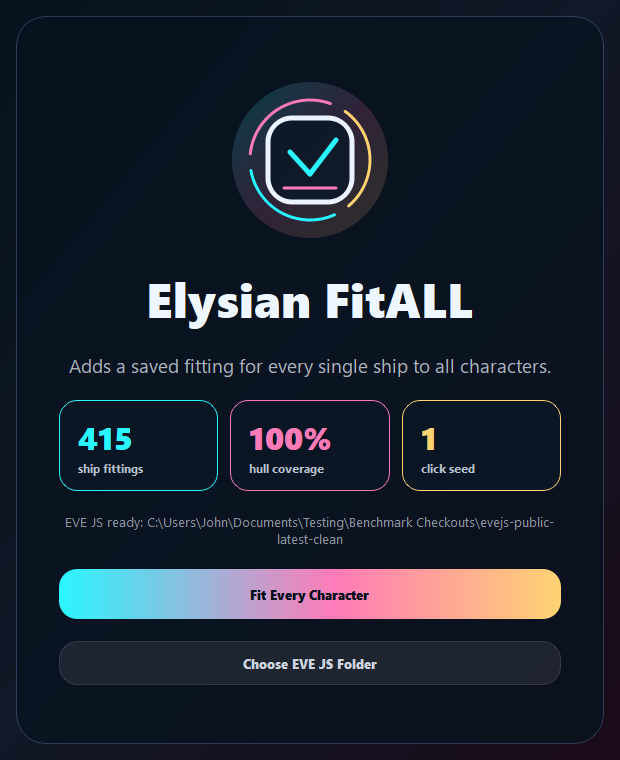
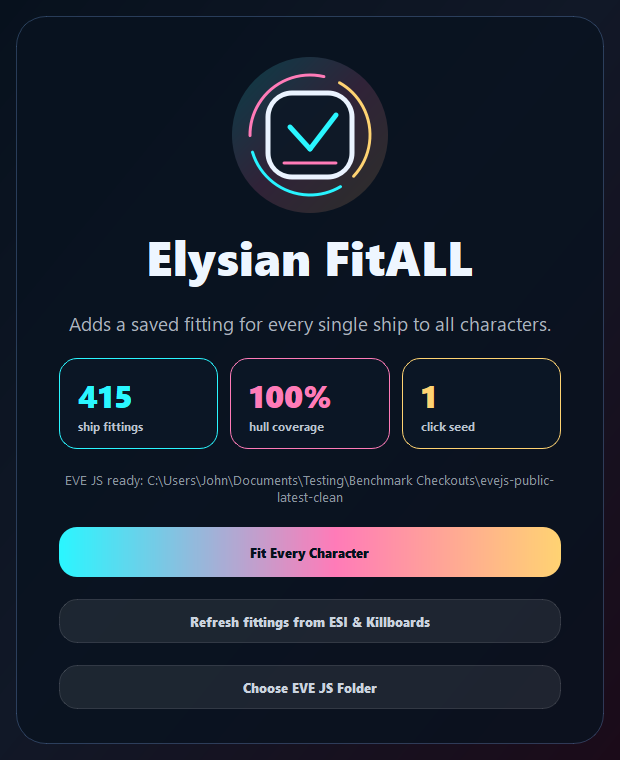
Add fitting refresh workflow

Changed region(s): [[0.0919, 0.0605, 0.9194, 0.9382], [0.8887, 0.575, 0.9194, 0.6053], [0.8887, 0.5145, 0.9194, 0.5447]]

diff --git a/desktop_app.py b/desktop_app.py
@@ -168,15 +168,20 @@ class MetricCard(QFrame):
         layout = QVBoxLayout(self)
         layout.setContentsMargins(18, 14, 18, 14)
         layout.setSpacing(2)
-        value_label = QLabel(value)
-        value_label.setFont(choose_font(24, QFont.Weight.Black))
-        value_label.setStyleSheet(f"color: {accent};")
-        caption = QLabel(label)
-        caption.setFont(choose_font(9, QFont.Weight.Bold))
-        caption.setStyleSheet("color: rgba(235,244,255,0.78);")
-        caption.setWordWrap(True)
-        layout.addWidget(value_label)
-        layout.addWidget(caption)
+        self.value_label = QLabel(value)
+        self.value_label.setFont(choose_font(24, QFont.Weight.Black))
+        self.value_label.setStyleSheet(f"color: {accent};")
+        self.caption = QLabel(label)
+        self.caption.setFont(choose_font(9, QFont.Weight.Bold))
+        self.caption.setStyleSheet("color: rgba(235,244,255,0.78);")
+        self.caption.setWordWrap(True)
+        layout.addWidget(self.value_label)
+        layout.addWidget(self.caption)
+
+    def set_metric(self, value: str, label: str | None = None) -> None:
+        self.value_label.setText(value)
+        if label is not None:
+            self.caption.setText(label)
 
 
 class StagePage(QWidget):
@@ -192,11 +197,15 @@ class FitWorker(QThread):
     finished_ok = Signal(dict)
     failed = Signal(str, str)
 
+    def __init__(self, command: str, parent: QWidget | None = None) -> None:
+        super().__init__(parent)
+        self.command = command
+
     def run(self) -> None:
         started = time.perf_counter()
         try:
             result = fitall.run_fitall_command(
-                command="seed-saved-fittings",
+                command=self.command,
                 event_callback=self.event.emit,
                 log_callback=None,
             )
@@ -213,6 +222,8 @@ class FitALLWindow(QMainWindow):
         self.setFixedSize(WINDOW_W, WINDOW_H)
         self._worker: FitWorker | None = None
         self._seed_total = 0
+        self._build_total = 0
+        self._active_command = "seed-saved-fittings"
         self._last_result: dict[str, Any] = {}
 
         shell = QWidget()
@@ -365,7 +376,11 @@ class FitALLWindow(QMainWindow):
         self.choose_button = QPushButton("Choose EVE JS Folder")
         self.choose_button.setObjectName("Ghost")
         self.choose_button.clicked.connect(self.choose_evejs_folder)
+        self.refresh_button = QPushButton("Refresh fittings from ESI && Killboards")
+        self.refresh_button.setObjectName("Ghost")
+        self.refresh_button.clicked.connect(self.start_refresh)
         self.ready_page.root.addWidget(self.primary_button)
+        self.ready_page.root.addWidget(self.refresh_button)
         self.ready_page.root.addWidget(self.choose_button)
         self.ready_page.root.addStretch(1)
         self.stack.addWidget(self.ready_page)
@@ -434,17 +449,19 @@ class FitALLWindow(QMainWindow):
         library_summary = snapshot.get("librarySummary") or {}
         ship_count = int(library_summary.get("shipCount") or 0)
         harvested = int(library_summary.get("harvestedCount") or 0)
-        self.ship_metric.layout().itemAt(0).widget().setText(format_count(harvested or ship_count))
+        self.ship_metric.set_metric(format_count(harvested or ship_count))
         coverage = "100%" if ship_count and harvested >= ship_count else f"{harvested}/{ship_count}"
-        self.coverage_metric.layout().itemAt(0).widget().setText(coverage)
+        self.coverage_metric.set_metric(coverage)
 
         if fitall.looks_like_evejs_root(fitall.REPO_ROOT):
             self.path_label.setText(f"EVE JS ready: {fitall.REPO_ROOT}")
             self.primary_button.setEnabled(True)
+            self.refresh_button.setEnabled(True)
             self.primary_button.setText("Fit Every Character")
         else:
             self.path_label.setText("Choose your EVE JS folder once. FitALL remembers it after setup.")
             self.primary_button.setEnabled(True)
+            self.refresh_button.setEnabled(True)
             self.primary_button.setText("Choose EVE JS Folder")
 
     @Slot()
@@ -468,11 +485,34 @@ class FitALLWindow(QMainWindow):
             return
         if self._worker and self._worker.isRunning():
             return
+        self._active_command = "seed-saved-fittings"
         self._seed_total = 0
+        self.running_title.setText("Fitting every character")
+        self.running_body.setText("Writing the FitALL library into EVE JS saved fittings.")
         self.progress.set_progress(0.03, active=True)
         self.progress_detail.setText("Loading characters...")
         self.stack.setCurrentWidget(self.running_page)
-        self._worker = FitWorker()
+        self._worker = FitWorker("seed-saved-fittings", self)
+        self._worker.event.connect(self.on_worker_event)
+        self._worker.finished_ok.connect(self.on_worker_done)
+        self._worker.failed.connect(self.on_worker_failed)
+        self._worker.start()
+
+    @Slot()
+    def start_refresh(self) -> None:
+        if not fitall.looks_like_evejs_root(fitall.REPO_ROOT):
+            self.choose_evejs_folder()
+            return
+        if self._worker and self._worker.isRunning():
+            return
+        self._active_command = "build-library"
+        self._build_total = 0
+        self.running_title.setText("Refreshing fittings")
+        self.running_body.setText("Downloading fresh public fits from ESI and zKillboard.")
+        self.progress.set_progress(0.02, active=True)
+        self.progress_detail.setText("Preparing ship list...")
+        self.stack.setCurrentWidget(self.running_page)
+        self._worker = FitWorker("build-library", self)
         self._worker.event.connect(self.on_worker_event)
         self._worker.finished_ok.connect(self.on_worker_done)
         self._worker.failed.connect(self.on_worker_failed)
@@ -499,18 +539,58 @@ class FitALLWindow(QMainWindow):
         if kind == "seed-complete":
             self.progress.set_progress(1.0, active=False)
             self.progress_detail.setText("Saved fittings written.")
+            return
+        if kind == "build-start":
+            self._build_total = int(payload.get("total") or 0)
+            self.running_body.setText("Downloading fresh public fits from ESI and zKillboard.")
+            self.progress_detail.setText(f"Preparing {format_count(self._build_total)} ships...")
+            self.progress.set_progress(0.04, active=True)
+            return
+        if kind == "build-progress":
+            current = int(payload.get("current") or 0)
+            total = max(1, int(payload.get("total") or self._build_total or 1))
+            ship_name = str(payload.get("shipName") or "ship")
+            status = "ready" if payload.get("status") == "ok" else "searching"
+            self.progress.set_progress(current / total, active=True)
+            self.progress_detail.setText(f"{current}/{total} - {ship_name} - {status}")
+            return
+        if kind == "build-complete":
+            summary = payload.get("summary") or {}
+            self.progress.set_progress(1.0, active=False)
+            self.progress_detail.setText(
+                f"Refreshed {format_count(summary.get('harvestedCount'))} / "
+                f"{format_count(summary.get('shipCount'))} fittings."
+            )
 
     @Slot(dict)
     def on_worker_done(self, result: dict[str, Any]) -> None:
         self._last_result = result
-        summary = result.get("seedSummary") or {}
         elapsed = float(result.get("elapsedSeconds") or 0)
-        self.done_chars.layout().itemAt(0).widget().setText(format_count(summary.get("charactersSeeded")))
-        self.done_fits.layout().itemAt(0).widget().setText(format_count(summary.get("toolLibraryFits")))
-        self.done_time.layout().itemAt(0).widget().setText(format_seconds(elapsed))
-        self.done_body.setText(
-            f"{format_count(summary.get('toolRecordsAdded'))} FitALL rows written into EVE JS saved fittings."
-        )
+        if result.get("command") == "build-library":
+            summary = result.get("librarySummary") or {}
+            self.done_title.setText("Fitting library refreshed")
+            self.done_chars.set_metric(format_count(summary.get("harvestedCount")), "ship fittings")
+            self.done_fits.set_metric(format_count(summary.get("publicCount")), "public ESI fits")
+            self.done_time.set_metric(format_seconds(elapsed), "refresh run")
+            self.done_body.setText(
+                "Fresh fittings are now saved locally. The main button will seed this refreshed library."
+            )
+            self.done_again.setText("Fit Every Character")
+            self.done_again.clicked.disconnect()
+            self.done_again.clicked.connect(self.start_seed)
+        else:
+            summary = result.get("seedSummary") or {}
+            self.done_title.setText("Every character is fitted")
+            self.done_chars.set_metric(format_count(summary.get("charactersSeeded")), "characters")
+            self.done_fits.set_metric(format_count(summary.get("toolLibraryFits")), "fits each")
+            self.done_time.set_metric(format_seconds(elapsed), "local run")
+            self.done_body.setText(
+                f"{format_count(summary.get('toolRecordsAdded'))} FitALL rows written into EVE JS saved fittings."
+            )
+            self.done_again.setText("Run Again")
+            self.done_again.clicked.disconnect()
+            self.done_again.clicked.connect(self.start_seed)
+        self.refresh_ready()
         self.stack.setCurrentWidget(self.done_page)
 
     @Slot(str, str)

diff --git a/fitall.py b/fitall.py
@@ -349,6 +349,34 @@ def find_latest_sde_root() -> Path:
     return max(candidates, key=lambda path: path.stat().st_mtime)
 
 
+def load_reference_data_from_library() -> tuple[dict[int, dict[str, Any]], dict[int, dict[str, Any]], list[ShipHull]]:
+    library = load_library_payload(required=True)
+    hulls: list[ShipHull] = []
+    seen: set[int] = set()
+    for record in library.get("records") or []:
+        if not isinstance(record, dict):
+            continue
+        type_id = to_int(record.get("shipTypeID"), 0)
+        ship_name = str(record.get("shipName") or "").strip()
+        if type_id <= 0 or not ship_name or type_id in seen:
+            continue
+        seen.add(type_id)
+        hulls.append(
+            ShipHull(
+                type_id=type_id,
+                name=ship_name,
+                group_id=to_int(record.get("groupID"), 0),
+                group_name=str(record.get("groupName") or "Ship"),
+            )
+        )
+
+    if not hulls:
+        raise RuntimeError("The bundled FitALL library did not contain a refreshable ship list.")
+
+    hulls.sort(key=lambda item: (item.group_name.lower(), item.name.lower(), item.type_id))
+    return {}, {}, hulls
+
+
 def load_reference_data(sde_root: Path) -> tuple[dict[int, dict[str, Any]], dict[int, dict[str, Any]], list[ShipHull]]:
     types_by_id: dict[int, dict[str, Any]] = {}
     groups_by_id: dict[int, dict[str, Any]] = {}
@@ -465,7 +493,7 @@ def normalize_fit_data(raw_fit_data: list[list[int]], types_by_id: dict[int, dic
         numeric_quantity = to_int(quantity, 0)
         if numeric_type_id <= 0 or numeric_flag_id <= 0 or numeric_quantity <= 0:
             continue
-        if numeric_type_id not in types_by_id:
+        if types_by_id and numeric_type_id not in types_by_id:
             continue
 
         if is_ship_fitting_flag(numeric_flag_id):
@@ -707,7 +735,7 @@ def load_library_payload(*, required: bool = True) -> dict[str, Any]:
     if required:
         raise RuntimeError(
             "No FitALL fitting library was found. Re-run the installer or use build-library "
-            "from an EVE JS checkout with ClientSDE exports."
+            "to refresh the shipped FitALL ship list from zKillboard/ESI."
         )
     return {}
 
@@ -1151,7 +1179,7 @@ def seed_saved_fittings(
 
 def build_library(
     *,
-    sde_root: Path,
+    sde_root: Path | None,
     cache_root: Path,
     max_pages: int,
     max_killmails: int,
@@ -1162,7 +1190,13 @@ def build_library(
     event_callback: EventCallback | None = None,
     log_callback: LogCallback | None = print,
 ) -> dict[str, Any]:
-    types_by_id, _groups_by_id, hulls = load_reference_data(sde_root)
+    if sde_root is not None:
+        types_by_id, _groups_by_id, hulls = load_reference_data(sde_root)
+        source_bundle = str(sde_root)
+    else:
+        types_by_id, _groups_by_id, hulls = load_reference_data_from_library()
+        source_bundle = str(BUNDLED_LIBRARY_JSON_PATH if BUNDLED_LIBRARY_JSON_PATH.exists() else LIBRARY_JSON_PATH)
+
     if limit_hulls and limit_hulls > 0:
         hulls = hulls[:limit_hulls]
 
@@ -1264,7 +1298,7 @@ def build_library(
     library = {
         "generatedAt": now_iso(),
         "tool": "FitALL",
-        "sourceBundle": str(sde_root),
+        "sourceBundle": source_bundle,
         "shipCount": len(records),
         "harvestedCount": len(ok_records),
         "missingCount": len(records) - len(ok_records),
@@ -1424,10 +1458,19 @@ def run_fitall_command(
 ) -> dict[str, Any]:
     needs_build = command in {"build-library", "build-and-seed"}
     if needs_build:
-        ensure_evejs_runtime_ready(require_sde=True)
-        sde_root: Path | None = find_latest_sde_root()
-        source_bundle = str(sde_root)
-        emit_log(log_callback, f"[FitALL] Using ClientSDE bundle: {sde_root}")
+        ensure_evejs_runtime_ready(require_sde=False)
+        sde_root: Path | None = None
+        if os.environ.get("FITALL_USE_CLIENT_SDE") == "1":
+            try:
+                sde_root = find_latest_sde_root()
+            except FileNotFoundError:
+                sde_root = None
+        if sde_root is not None:
+            source_bundle = str(sde_root)
+            emit_log(log_callback, f"[FitALL] Using local SDE bundle: {sde_root}")
+        else:
+            source_bundle = str(BUNDLED_LIBRARY_JSON_PATH if BUNDLED_LIBRARY_JSON_PATH.exists() else LIBRARY_JSON_PATH)
+            emit_log(log_callback, "[FitALL] Refreshing the shipped FitALL ship list from zKillboard/ESI.")
     else:
         ensure_evejs_runtime_ready(require_sde=False)
         sde_root = None
@@ -1457,7 +1500,7 @@ def run_fitall_command(
 
     if command in {"build-library", "build-and-seed"}:
         library = build_library(
-            sde_root=sde_root or find_latest_sde_root(),
+            sde_root=sde_root,
             cache_root=CACHE_OUTPUT_ROOT,
             max_pages=max(1, max_pages),
             max_killmails=max(1, max_killmails),

diff --git a/README.md b/README.md
@@ -27,7 +27,7 @@
 
 Elysian FitALL is a tiny desktop tool for [EVE JS](https://github.com/evejs-emu/eve.js) servers. Point it at your EVE JS checkout, press one button, and every character gets one saved fitting for every published ship hull.
 
-The normal path is offline and instant: the release includes the curated FitALL library, so users do not wait on zKillboard or ESI harvesting just to seed their server.
+The normal path is offline and instant: the release includes the curated compact FitALL library, so users do not wait on zKillboard or ESI harvesting just to seed their server. The desktop app also includes a `Refresh fittings from ESI & Killboards` button when you want to rebuild that local fitting library from fresh public data.
 
 ## Download & Install
 
@@ -67,7 +67,7 @@ The installer uses `brew` or the official Python package on macOS, and common Li
   <img src="assets/screenshots/fitall-gui-v1.png" alt="Elysian FitALL desktop app screenshot" width="620">
 </p>
 
-FitALL opens as a small staged desktop app: a John Elysian intro, one clean setup screen, one progress screen, and one done screen. The main action is intentionally simple: `Fit Every Character`.
+FitALL opens as a small staged desktop app: one clean setup screen, one progress screen, and one done screen. The main action is intentionally simple: `Fit Every Character`.
 
 ## Benchmark Receipt
 
@@ -84,6 +84,12 @@ Measured on May 7, 2026 against a fresh local clone of the public EVE JS repo:
 | `0.402s` real write receipt | Python startup + library load + seed + savedFittings JSON write |
 | `4.74ms` best engine dry-run | Hot local seed path without process startup or disk write |
 | `0` skipped characters | Public clone test had enough fitting slots for every character |
+
+## Refresh Fittings
+
+The release ships with `data/fitall-library.json`, a compact all-in-one library containing the fitting records used for instant seeding.
+
+Use `Refresh fittings from ESI & Killboards` when you want FitALL to rebuild the local library from public zKillboard and ESI data. The refresh uses the shipped FitALL ship list, so normal users do not need EVE SDE exports.
 
 ## Built For EVE JS
 